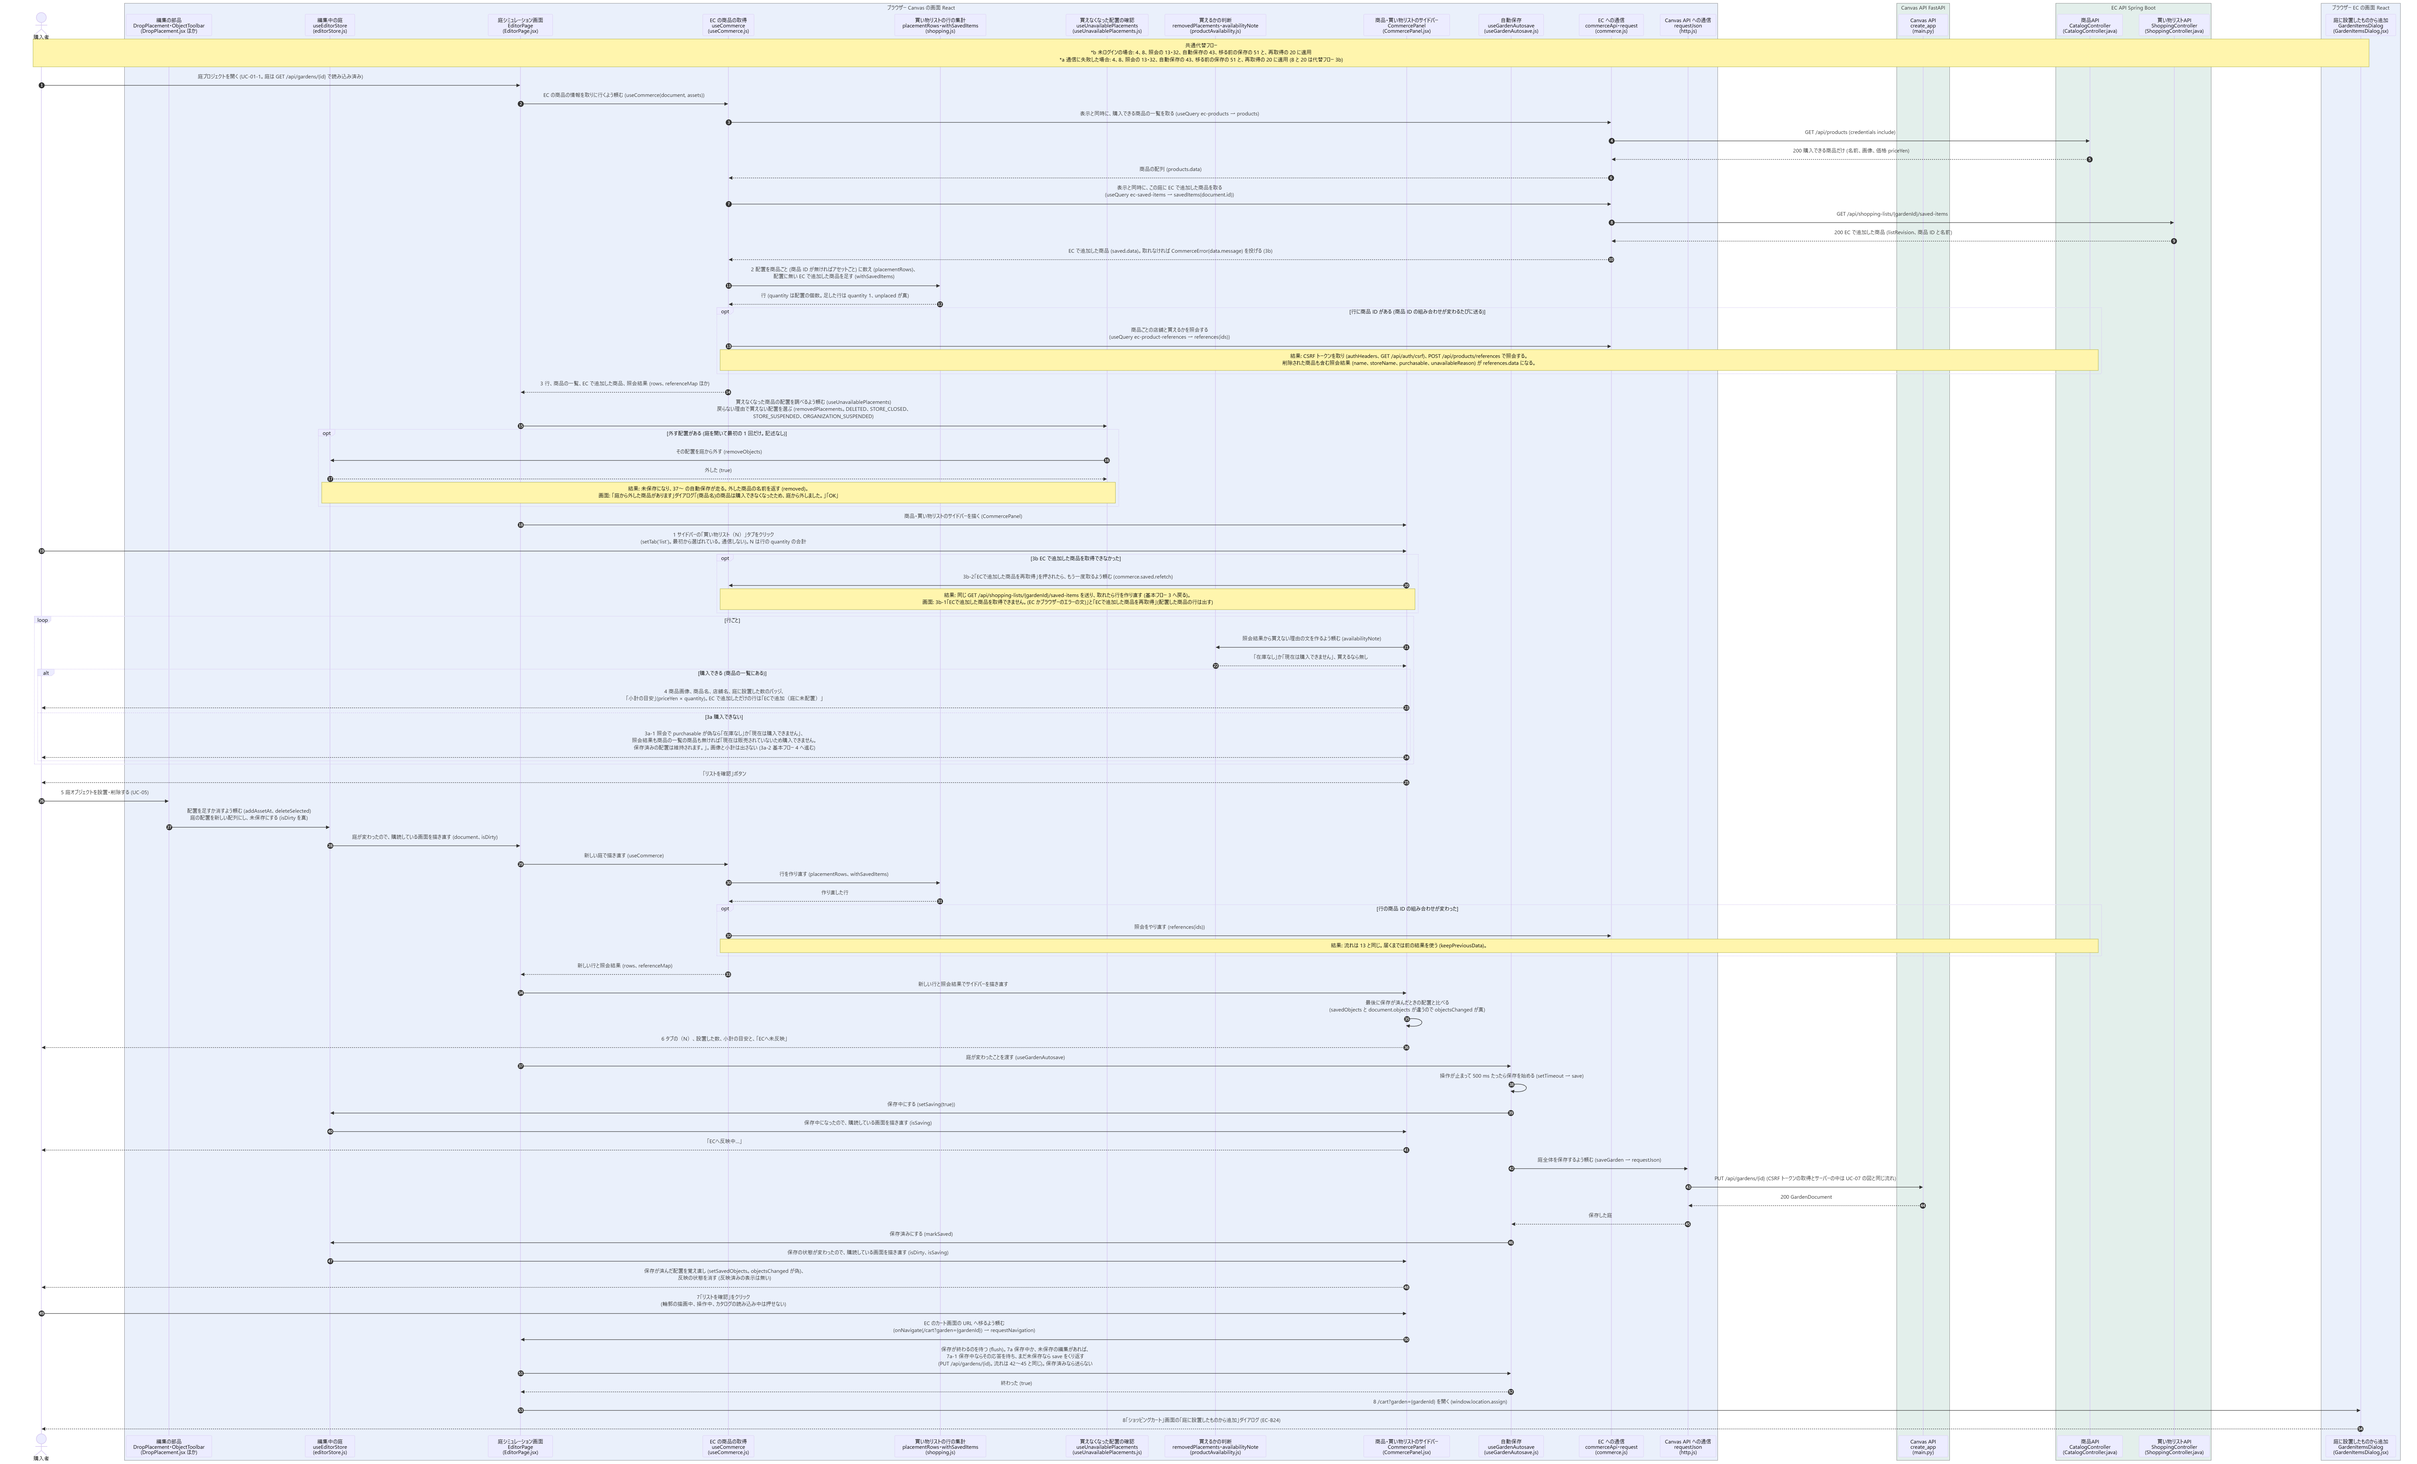
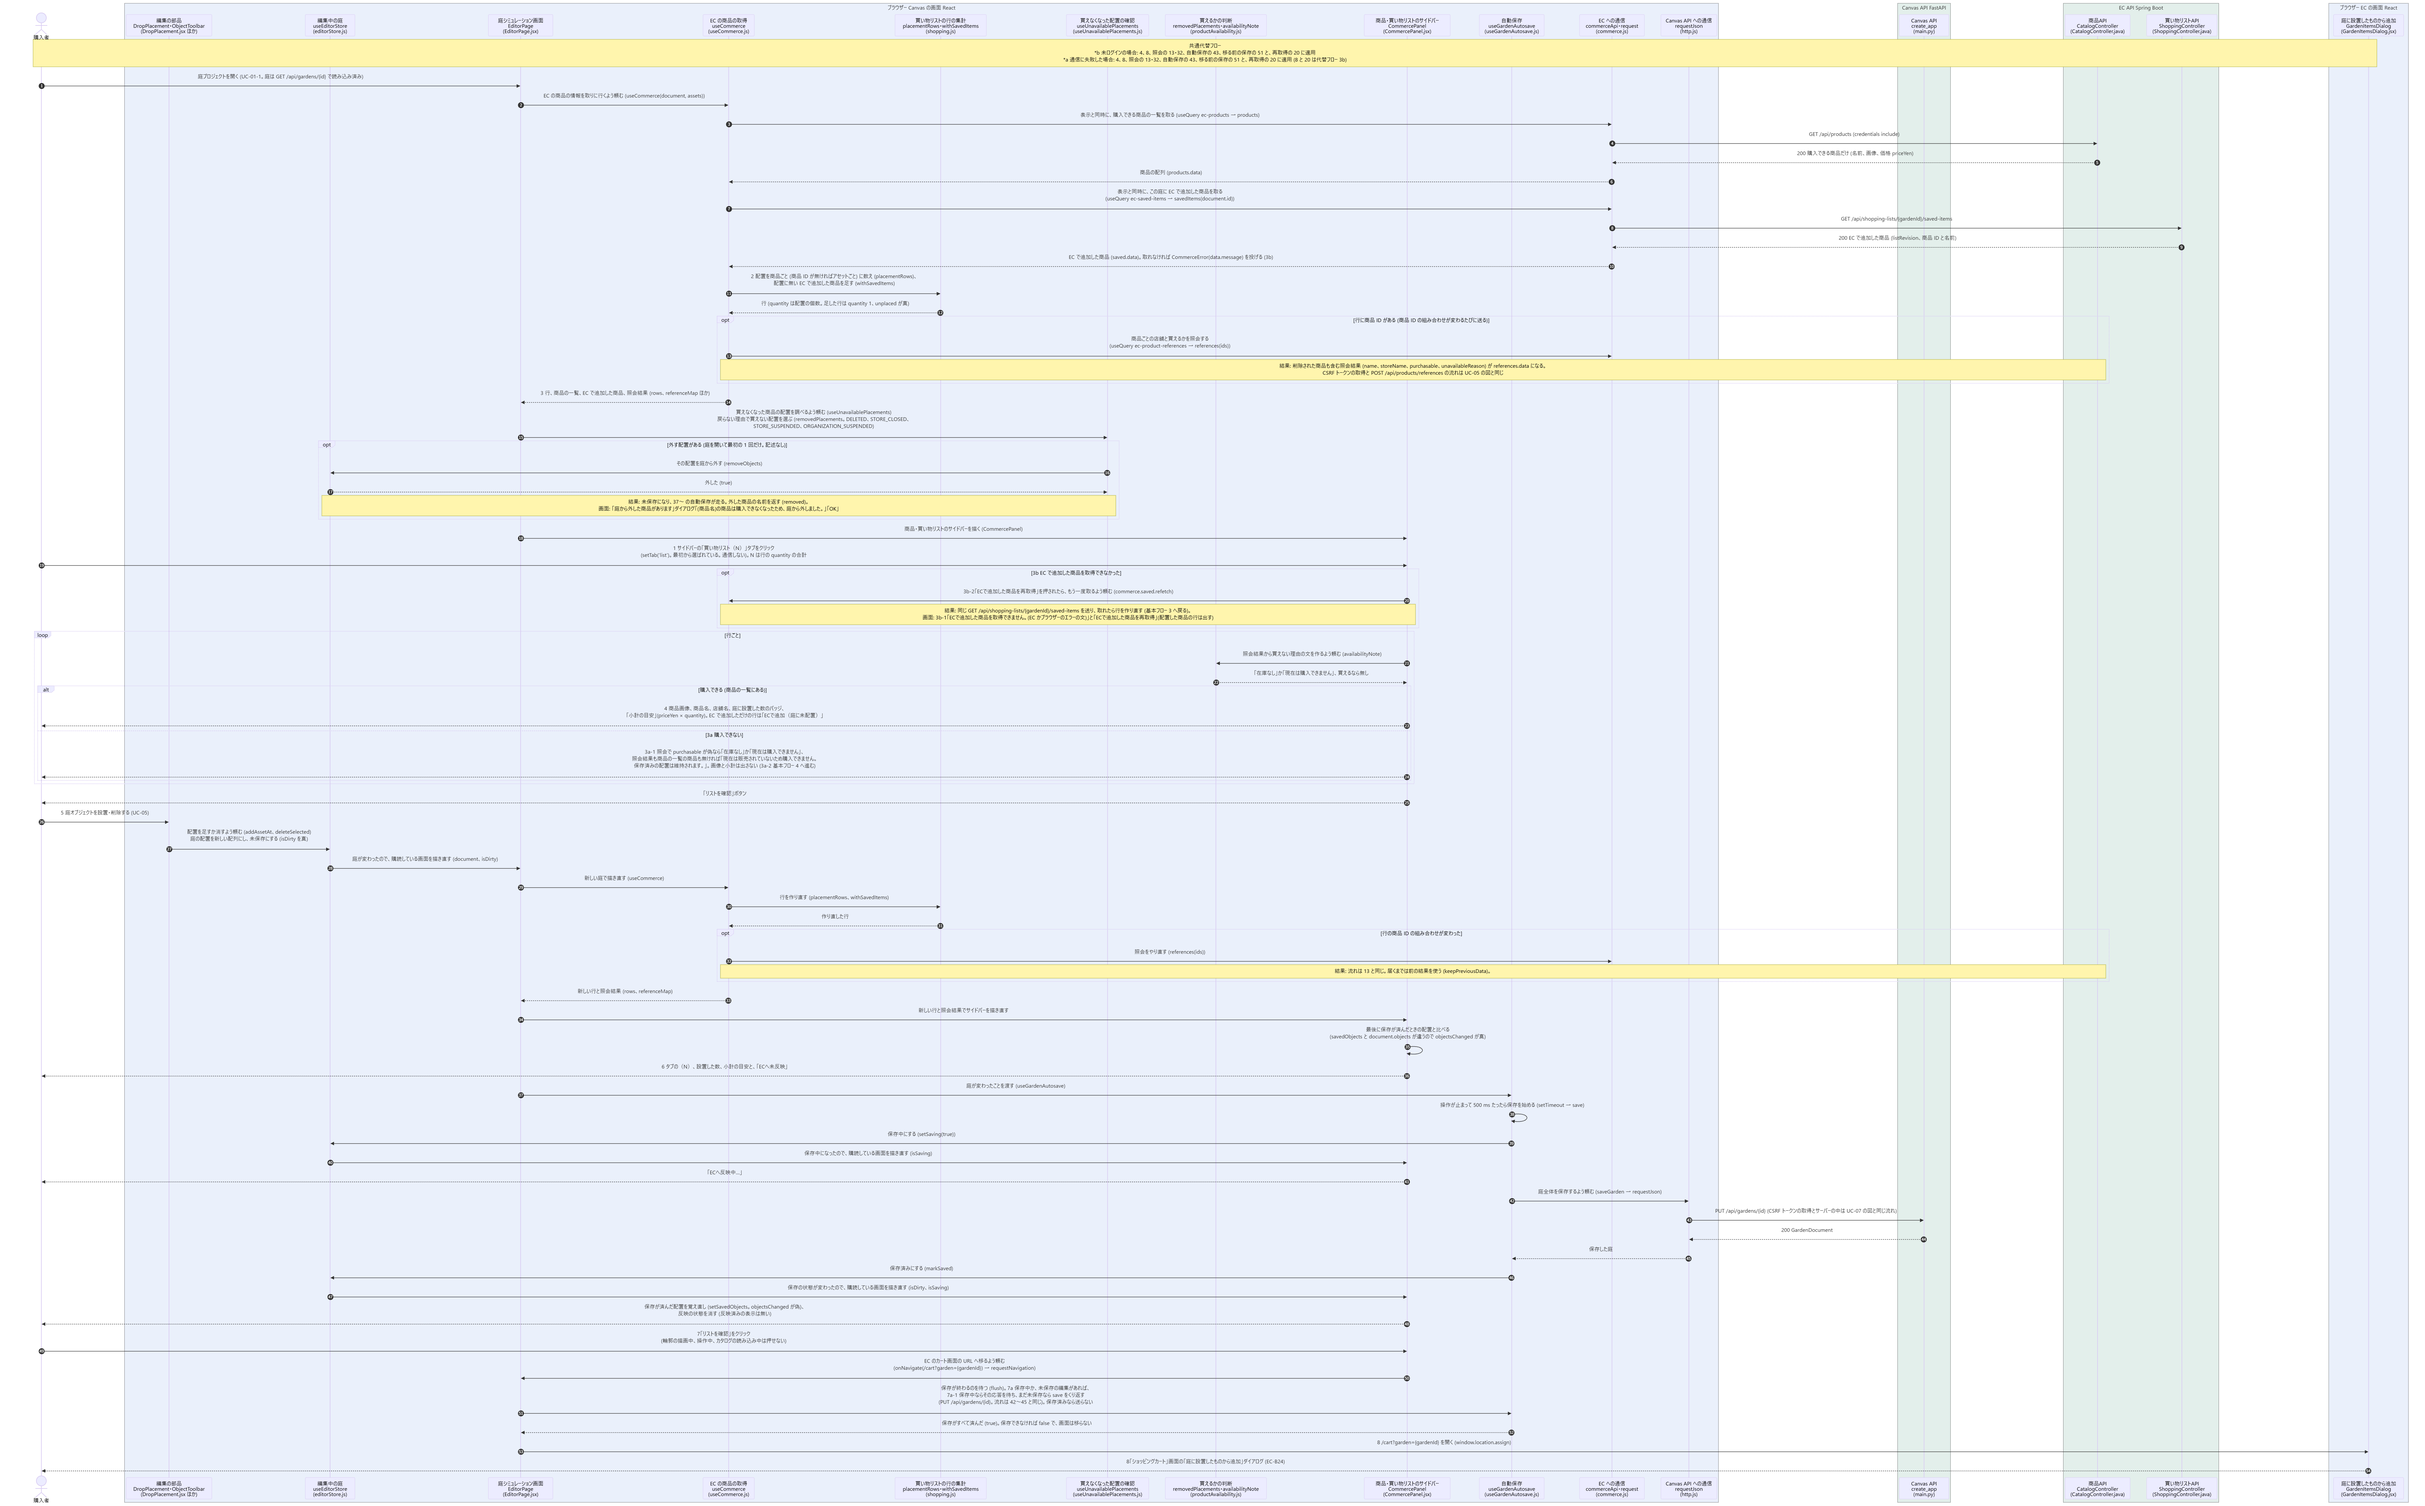
「買い物リストを表示する」ユースケース記述を修正

diff --git a/シーケンス図/kusakari-canvas/UC-09_買い物リストを表示する.md b/シーケンス図/kusakari-canvas/UC-09_買い物リストを表示する.md
@@ -44,7 +44,7 @@ sequenceDiagram
     Shop-->>Hook: 行 (quantity は配置の個数。足した行は quantity 1、unplaced が真)
     opt 行に商品 ID がある (商品 ID の組み合わせが変わるたびに送る)
         Hook->>Com: 商品ごとの店舗と買えるかを照会する<br/>(useQuery ec-product-references → references(ids))
-        Note over Hook,EcCat: 結果: CSRF トークンを取り (authHeaders、GET /api/auth/csrf)、POST /api/products/references で照会する。<br/>削除された商品も含む照会結果 (name、storeName、purchasable、unavailableReason) が references.data になる。
+        Note over Hook,EcCat: 結果: 削除された商品も含む照会結果 (name、storeName、purchasable、unavailableReason) が references.data になる。<br/>CSRF トークンの取得と POST /api/products/references の流れは UC-05 の図と同じ
     end
     Hook-->>Editor: 3 行、商品の一覧、EC で追加した商品、照会結果 (rows、referenceMap ほか)
     Editor->>Unav: 買えなくなった商品の配置を調べるよう頼む (useUnavailablePlacements)<br/>戻らない理由で買えない配置を選ぶ (removedPlacements。DELETED、STORE_CLOSED、<br/>STORE_SUSPENDED、ORGANIZATION_SUSPENDED)
@@ -101,7 +101,7 @@ sequenceDiagram
     User->>Panel: 7「リストを確認」をクリック<br/>(輪郭の描画中、操作中、カタログの読み込み中は押せない)
     Panel->>Editor: EC のカート画面の URL へ移るよう頼む<br/>(onNavigate(/cart?garden={gardenId}) → requestNavigation)
     Editor->>Save: 保存が終わるのを待つ (flush)。7a 保存中か、未保存の編集があれば、<br/>7a-1 保存中ならその応答を待ち、まだ未保存なら save をくり返す<br/>(PUT /api/gardens/{id}。流れは 42〜45 と同じ)。保存済みなら送らない
-    Save-->>Editor: 終わった (true)
+    Save-->>Editor: 保存がすべて済んだ (true)。保存できなければ false で、画面は移らない
     Editor->>EcWeb: 8 /cart?garden={gardenId} を開く (window.location.assign)
     EcWeb-->>User: 8「ショッピングカート」画面の「庭に設置したものから追加」ダイアログ (EC-B24)
 ```
